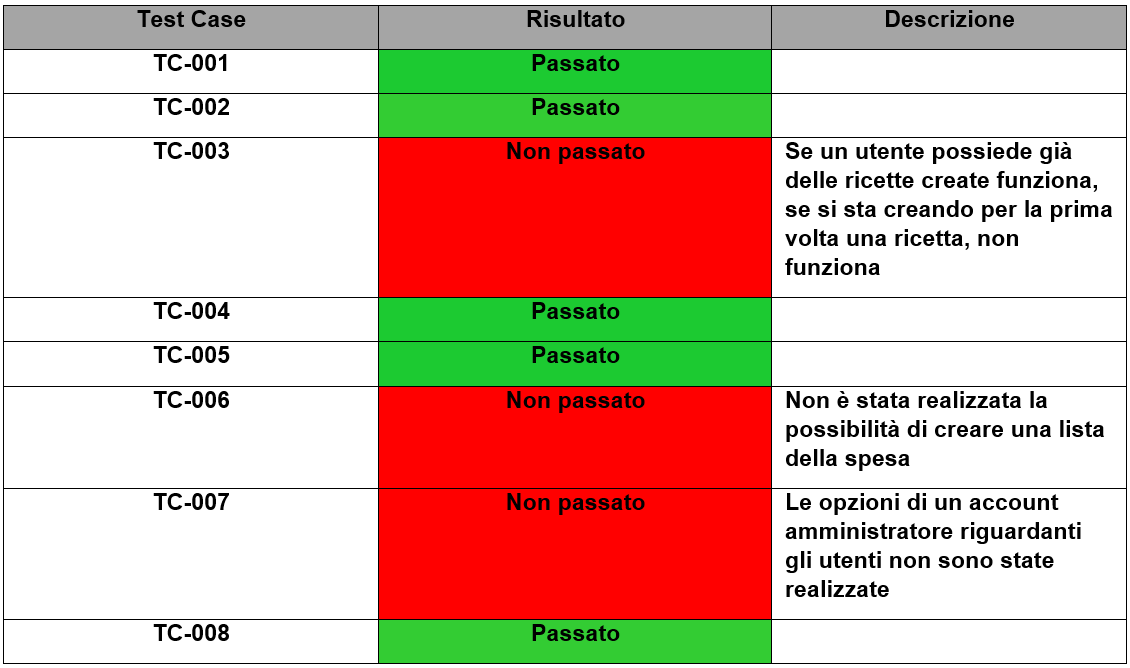
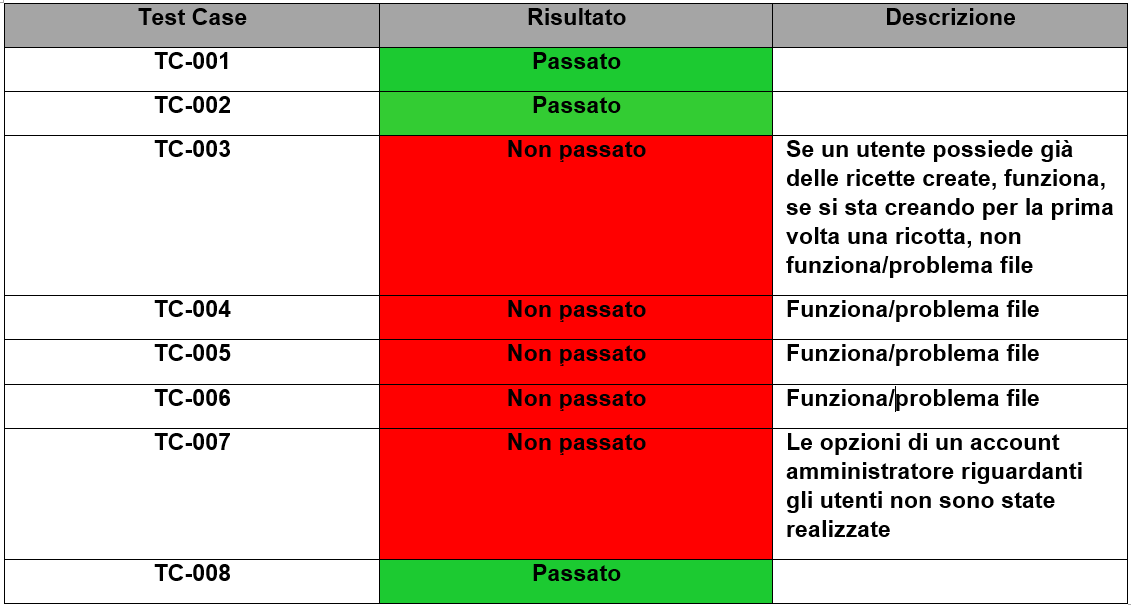
no message

diff --git a/doc/Implementazione.md b/doc/Implementazione.md
@@ -143,8 +143,26 @@ Data di fine: 20.01.2017
 ![Esiti test](img/risultati_test.PNG)
 
 ### Mancanze/limitazioni conosciute
-Il problema principale del prodotto finale è quello che i fori per i pin non sono stati realizzati in modo adeguato poiché non sono abbastanza lunghi, e quindi alcuni pin non sono accessibili. La causa del tutto è quella che i fori sono stati realizzati con l’utilizzo di un trapano e di una lima piatta e ciò ha comportato una scoordinazione nella forma dei fori ed una sorta di imprecisione per l’altezza di questi.
-Come ho citato nella parte d’implementazione le vie d’accesso devono essere realizzate tramite un foro al centro delle forma da estrapolare dalla parte di compensato, questo realizzato con l’aiuto di un trapano ed in seguito eseguire il ritaglio grazie ad una sega a mano.
+
+Le mancanze e limitazioni principali del prodotto finale sono:
+
+- L'opzione di creare una lista della spesa
+
+- Gestione account dagli utenti amministratori
+
+- Problemi riguardanti la creazione, modifica e cancellazione di una ricetta.
+
+Per quanto concerne la lista della spesa, una parte molto importante del sito,
+non si è potuta sviluppare perché è stato dedicato più tempo del dovuto alle altre attività e di conseguenza il tempo per realizzare tutto il necessario non era sufficiente.
+
+Stessa situazione descritta sopra per la parte degli account con il compito di amministrare.
+
+Infine, per la ricetta ci è stato un incidente causato da disattenzione, un file presente nel server è stato sovrascritto, di conseguenza del lavoro è andato perso.
+Per colpa di quest'ultimo accaduto, è stata dovuta rifare questa parte, ma nel file
+sovrascritto tutte le parti non erano pienamente funzionanti.
+
+C'era l'intenzione di dare la possibilità di integrare il download di documenti
+PDF nell'applicazione 
 
 ## Consuntivo
 
@@ -188,9 +206,11 @@ PARTE NICO
 
 ### Sitografia
 
+-   http://www.ganttproject.biz/, *GanttProject*, 11-11-2016
+
 -   http://www.w3schools.com/, *Consigli programmazione*, 18-11-2016
 
--   http://www.ganttproject.biz/, *GanttProject*, 11-11-2016
+- http://plugins.krajee.com/star-rating, *Star rating Bootstrap*, 25-11-2016
 
 -   http://logicnet.dk/DiagramDesigner/, *DiagramDesigner*, 02-12-2016
 
